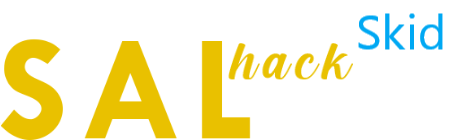
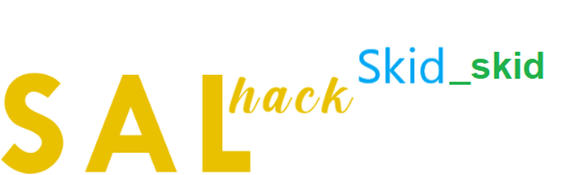
change watermark, updated pvp info for hud

Changed region(s): [[0.0, 0.0857, 0.9933, 1.0], [0.9002, 0.0857, 0.9313, 0.1429]]

diff --git a/src/main/java/me/ionar/salhack/gui/hud/components/PvPInfoComponent.java b/src/main/java/me/ionar/salhack/gui/hud/components/PvPInfoComponent.java
@@ -7,6 +7,7 @@ import me.ionar.salhack.managers.ModuleManager;
 import me.ionar.salhack.module.combat.*;
 import me.ionar.salhack.module.movement.SpeedModule;
 import me.ionar.salhack.util.render.RenderUtil;
+import net.minecraftforge.fml.common.Mod;
 
 public class PvPInfoComponent extends HudComponentItem
 {
@@ -17,7 +18,9 @@ public class PvPInfoComponent extends HudComponentItem
         _killAura = (KillAuraModule)ModuleManager.Get().GetMod(KillAuraModule.class);
         _autoCrystal = (AutoCrystalModule)ModuleManager.Get().GetMod(AutoCrystalModule.class);
         _autoTrap = (AutoTrap)ModuleManager.Get().GetMod(AutoTrap.class);
-        _speed = (SpeedModule)ModuleManager.Get().GetMod(SpeedModule.class);
+        _anchorTrap = (AnchorTrap)ModuleManager.Get().GetMod(AnchorTrap.class);
+        _surround = (SurroundModule)ModuleManager.Get().GetMod(SurroundModule.class);
+        _anchorSurround = (AnchorSurround)ModuleManager.Get().GetMod(AnchorSurround.class);
         _autoCrystalRewrite = (AutoCrystalRewrite)ModuleManager.Get().GetMod(AutoCrystalRewrite.class);
         _bedAura = (BedAuraModule)ModuleManager.Get().GetMod(BedAuraModule.class);
     }
@@ -25,7 +28,9 @@ public class PvPInfoComponent extends HudComponentItem
     private KillAuraModule _killAura;
     private AutoCrystalModule _autoCrystal;
     private AutoTrap _autoTrap;
-    private SpeedModule _speed;
+    private AnchorTrap _anchorTrap;
+    private SurroundModule _surround;
+    private AnchorSurround _anchorSurround;
     private AutoCrystalRewrite _autoCrystalRewrite;
     private BedAuraModule _bedAura;
 
@@ -34,11 +39,11 @@ public class PvPInfoComponent extends HudComponentItem
     {
         super.render(p_MouseX, p_MouseY, p_PartialTicks);
 
-        final String aura = ChatFormatting.GRAY + "KA " + ChatFormatting.WHITE + (_killAura.isEnabled() ? ChatFormatting.GREEN + "ON" : ChatFormatting.RED + "OFF");
-        final String crystal = ChatFormatting.GRAY + "CA " + ChatFormatting.WHITE + ((_autoCrystal.isEnabled() || _autoCrystalRewrite.isEnabled()) ? ChatFormatting.GREEN + "ON" : ChatFormatting.RED + "OFF");
-        final String bedAura = ChatFormatting.GRAY + "BA " + ChatFormatting.WHITE + (_bedAura.isEnabled() ? ChatFormatting.GREEN + "ON" : ChatFormatting.RED + "OFF");
-        final String autoTrap = ChatFormatting.GRAY + "AT " + ChatFormatting.WHITE + (_autoTrap.isEnabled() ? ChatFormatting.GREEN + "ON" : ChatFormatting.RED + "OFF");
-        final String speed = ChatFormatting.GRAY + "S " + ChatFormatting.WHITE + (_speed.isEnabled() ? ChatFormatting.GREEN + "ON" : ChatFormatting.RED + "OFF");
+        final String aura = ChatFormatting.GRAY + "KILL AURA " + ChatFormatting.WHITE + (_killAura.isEnabled() ? ChatFormatting.GREEN + "ON" : ChatFormatting.RED + "OFF");
+        final String crystal = ChatFormatting.GRAY + "CRYSTAL A " + ChatFormatting.WHITE + ((_autoCrystal.isEnabled() || _autoCrystalRewrite.isEnabled()) ? ChatFormatting.GREEN + "ON" : ChatFormatting.RED + "OFF");
+        final String bedAura = ChatFormatting.GRAY + "BED AURA " + ChatFormatting.WHITE + (_bedAura.isEnabled() ? ChatFormatting.GREEN + "ON" : ChatFormatting.RED + "OFF");
+        final String autoTrap = ChatFormatting.GRAY + "AUTO TRAP " + ChatFormatting.WHITE + ((_autoTrap.isEnabled() || _anchorTrap.isEnabled()) ? ChatFormatting.GREEN + "ON" : ChatFormatting.RED + "OFF");
+        final String speed = ChatFormatting.GRAY + "SURROUND " + ChatFormatting.WHITE + ((_surround.isEnabled() || _anchorSurround.isEnabled()) ? ChatFormatting.GREEN + "ON" : ChatFormatting.RED + "OFF");
         
         RenderUtil.drawStringWithShadow(aura, GetX(), GetY(), -1);
         RenderUtil.drawStringWithShadow(crystal, GetX(), GetY()+12, -1);

diff --git a/src/main/java/me/ionar/salhack/SalHackMod.java b/src/main/java/me/ionar/salhack/SalHackMod.java
@@ -16,7 +16,7 @@ import net.minecraftforge.fml.common.event.FMLInitializationEvent;
 public final class SalHackMod
 {
     public static final String NAME = "SalHackSkid_skid";
-    public static final String VERSION = "1.1.2a";
+    public static final String VERSION = "1.1.2b";
 
     public static final Logger log = LogManager.getLogger("sal");
 
